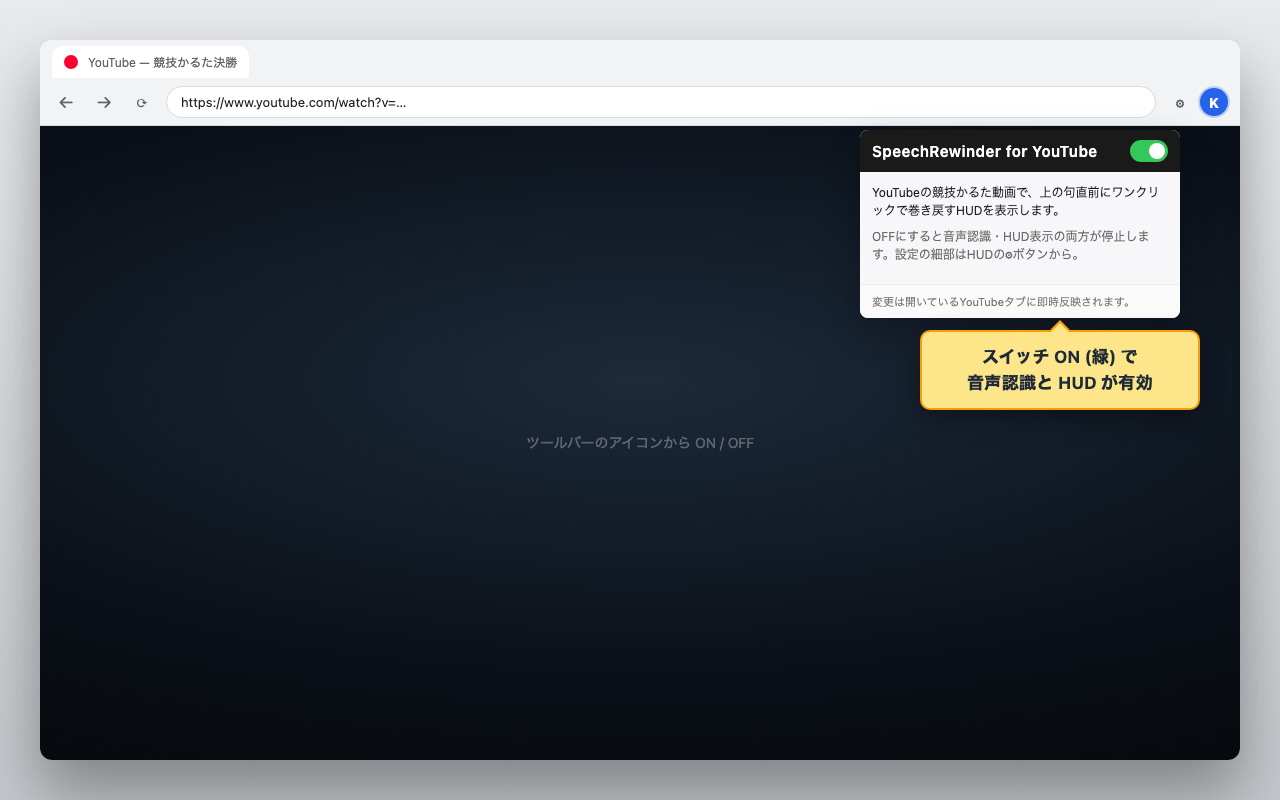
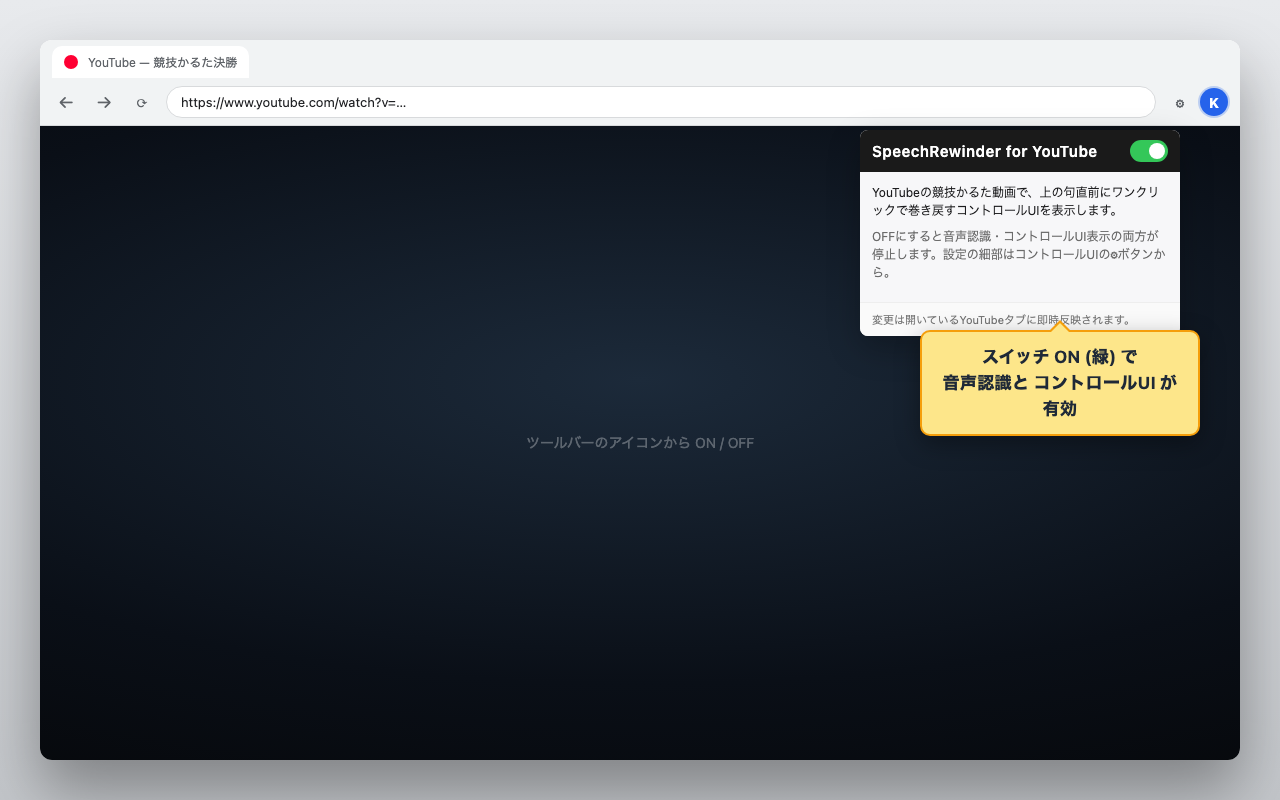
Bump 1.2.0: rename button to 「発話前に戻る」, hide "HUD" from users
The label "静粛まで巻き戻し" and the term "HUD" were both opaque to
people who don't already know what they mean. Both are now replaced
with plainer wording while keeping the same UI structure.

- Button label everywhere (HUD.ts, mocks, docs, store materials):
  「静粛まで巻き戻し」→ 「発話前に戻る」.
- User-facing copy (popup, manifest description, mock popups, README
  intro / usage / known-limits sections, PRIVACY, store listing,
  checklist, screenshot prompts): "HUD" → "コントロールUI".
  Source code identifiers (Hud class, hud/ directory) and dev-facing
  code comments keep the original word — they describe the
  implementation, not the user-facing name.
- Re-rendered all 5 screenshots from the updated mocks so the
  button and popup show the new strings.

Changed region(s): [[0.7188, 0.4688, 0.9375, 0.5625], [0.6562, 0.375, 0.9375, 0.4375], [0.6875, 0.25, 0.9062, 0.3438]]

diff --git a/mock/5-popup-off.html b/mock/5-popup-off.html
@@ -171,14 +171,14 @@
           <label class="switch"><span></span></label>
         </div>
         <div class="popup-section">
-          <p class="hint">YouTubeの競技かるた動画で、上の句直前にワンクリックで巻き戻すHUDを表示します。</p>
-          <p class="hint dim">OFFにすると音声認識・HUD表示の両方が停止します。設定の細部はHUDの⚙ボタンから。</p>
+          <p class="hint">YouTubeの競技かるた動画で、上の句直前にワンクリックで巻き戻すコントロールUIを表示します。</p>
+          <p class="hint dim">OFFにすると音声認識・コントロールUI表示の両方が停止します。設定の細部はコントロールUIの⚙ボタンから。</p>
         </div>
         <div class="popup-footer">変更は開いているYouTubeタブに即時反映されます。</div>
       </div>
     </div>
 
-    <div class="caption-2">スイッチ OFF (グレー) で<br/>音声認識も HUD も停止</div>
+    <div class="caption-2">スイッチ OFF (グレー) で<br/>音声認識も コントロールUI も停止</div>
 
     <div class="page-bg">
       ツールバーのアイコンから ON / OFF

diff --git a/mock/4-popup-on.html b/mock/4-popup-on.html
@@ -227,14 +227,14 @@
           <label class="switch"><span></span></label>
         </div>
         <div class="popup-section">
-          <p class="hint">YouTubeの競技かるた動画で、上の句直前にワンクリックで巻き戻すHUDを表示します。</p>
-          <p class="hint dim">OFFにすると音声認識・HUD表示の両方が停止します。設定の細部はHUDの⚙ボタンから。</p>
+          <p class="hint">YouTubeの競技かるた動画で、上の句直前にワンクリックで巻き戻すコントロールUIを表示します。</p>
+          <p class="hint dim">OFFにすると音声認識・コントロールUI表示の両方が停止します。設定の細部はコントロールUIの⚙ボタンから。</p>
         </div>
         <div class="popup-footer">変更は開いているYouTubeタブに即時反映されます。</div>
       </div>
     </div>
 
-    <div class="caption-2">スイッチ ON (緑) で<br/>音声認識と HUD が有効</div>
+    <div class="caption-2">スイッチ ON (緑) で<br/>音声認識と コントロールUI が有効</div>
 
     <div class="page-bg">
       ツールバーのアイコンから ON / OFF

diff --git a/mock/1-active.html b/mock/1-active.html
@@ -2,7 +2,7 @@
 <html lang="ja">
 <head>
   <meta charset="utf-8" />
-  <title>SpeechRewinder for YouTube — HUD active</title>
+  <title>SpeechRewinder for YouTube — コントロールUI active</title>
   <link rel="stylesheet" href="./_base.css" />
 </head>
 <body>
@@ -14,11 +14,11 @@
   <div class="yt-main">
     <div>
       <div class="yt-player">
-        <!-- The HUD: compact + active -->
+        <!-- The コントロールUI: compact + active -->
         <div class="panel">
           <div class="row">
-            <button class="rewind-btn active flash" type="button" title="静粛まで巻き戻し">
-              <span>◀</span><span>静粛まで巻き戻し</span>
+            <button class="rewind-btn active flash" type="button" title="発話前に戻る">
+              <span>◀</span><span>発話前に戻る</span>
             </button>
             <button class="gear-btn" type="button" title="詳細設定">⚙</button>
           </div>

diff --git a/mock/2-expanded.html b/mock/2-expanded.html
@@ -2,7 +2,7 @@
 <html lang="ja">
 <head>
   <meta charset="utf-8" />
-  <title>SpeechRewinder for YouTube — HUD expanded</title>
+  <title>SpeechRewinder for YouTube — コントロールUI expanded</title>
   <link rel="stylesheet" href="./_base.css" />
 </head>
 <body>
@@ -16,8 +16,8 @@
       <div class="yt-player">
         <div class="panel expanded">
           <div class="row">
-            <button class="rewind-btn active" type="button" title="静粛まで巻き戻し">
-              <span>◀</span><span>静粛まで巻き戻し</span>
+            <button class="rewind-btn active" type="button" title="発話前に戻る">
+              <span>◀</span><span>発話前に戻る</span>
             </button>
             <button class="gear-btn" type="button" title="詳細設定">⚙</button>
           </div>

diff --git a/src/manifest.ts b/src/manifest.ts
@@ -3,8 +3,8 @@ import { defineManifest } from "@crxjs/vite-plugin";
 export default defineManifest({
   manifest_version: 3,
   name: "SpeechRewinder for YouTube",
-  version: "1.1.0",
-  description: "YouTubeで「次の発話の直前」までワンクリックで巻き戻すHUD。競技かるたの上の句直前など、ピンポイントな聞き直しに最適。",
+  version: "1.2.0",
+  description: "YouTubeで「次の発話の直前」までワンクリックで巻き戻すコントロールUI。競技かるたの上の句直前など、ピンポイントな聞き直しに最適。",
   permissions: ["storage"],
   host_permissions: ["https://www.youtube.com/*"],
   background: {

diff --git a/src/popup/popup.html b/src/popup/popup.html
@@ -16,10 +16,10 @@
 
     <section>
       <p class="hint">
-        YouTubeの競技かるた動画で、上の句直前にワンクリックで巻き戻すHUDを表示します。
+        YouTubeの競技かるた動画で、上の句直前にワンクリックで巻き戻すコントロールUIを表示します。
       </p>
       <p class="hint dim">
-        OFFにすると音声認識・HUD表示の両方が停止します。設定の細部はHUDの⚙ボタンから。
+        OFFにすると音声認識・コントロールUI表示の両方が停止します。設定の細部はコントロールUIの⚙ボタンから。
       </p>
     </section>
 

diff --git a/mock/3-live.html b/mock/3-live.html
@@ -16,8 +16,8 @@
       <div class="yt-player">
         <div class="panel expanded">
           <div class="row">
-            <button class="rewind-btn active" type="button" title="静粛まで巻き戻し">
-              <span>◀</span><span>静粛まで巻き戻し</span>
+            <button class="rewind-btn active" type="button" title="発話前に戻る">
+              <span>◀</span><span>発話前に戻る</span>
             </button>
             <button class="gear-btn" type="button" title="詳細設定">⚙</button>
           </div>

diff --git a/src/content/hud/HUD.ts b/src/content/hud/HUD.ts
@@ -68,8 +68,8 @@ export class Hud {
     // DOMException on this page).
     this.rewindBtn = el(
       "button",
-      { class: "rewind-btn inactive", type: "button", title: "静粛まで巻き戻し" },
-      [el("span", {}, ["◀"]), el("span", {}, ["静粛まで巻き戻し"])],
+      { class: "rewind-btn inactive", type: "button", title: "発話前に戻る" },
+      [el("span", {}, ["◀"]), el("span", {}, ["発話前に戻る"])],
     );
     this.gearBtn = el(
       "button",

diff --git a/store/screenshots-prompts.md b/store/screenshots-prompts.md
@@ -1,6 +1,6 @@
 # LLM画像生成プロンプト集 — Chrome Web Store 提出用
 
-`store/screenshots/` 配下の 1〜5 は実HUDモックのスクリーンショット (1280×800 PNG) が既に用意されています。下記は**ヒーロー画像**や**プロモタイル**など追加のイメージ素材を LLM画像生成 (DALL·E / Imagen / Midjourney / SDXL 等) で作るときの推奨プロンプトです。
+`store/screenshots/` 配下の 1〜5 は実コントロールUIモックのスクリーンショット (1280×800 PNG) が既に用意されています。下記は**ヒーロー画像**や**プロモタイル**など追加のイメージ素材を LLM画像生成 (DALL·E / Imagen / Midjourney / SDXL 等) で作るときの推奨プロンプトです。
 
 すべて **横長 1280×800** または **440×280 (小プロモタイル)** で出力するように指定してください。
 
@@ -11,7 +11,7 @@
 ### Prompt A — 機能の視覚化 (推奨・抽象的)
 
 ```
-A clean, modern Chrome browser window screenshot showing a YouTube-style video player on a dark background. At the top center of the video, a small horizontal pill-shaped overlay button is glowing soft blue with a subtle ring of light expanding outward, labeled "◀ 静粛まで巻き戻し" in white. Below the player is a faint waveform visualization with alternating speech and silence segments marked. The aesthetic is minimalist, dark-mode, slightly futuristic, with a hint of traditional Japanese karuta cards (small, gold leaf, blurred) in the bottom corner as a subtle motif. 16:9 aspect ratio, ultra-sharp, photographic realism with UI overlays.
+A clean, modern Chrome browser window screenshot showing a YouTube-style video player on a dark background. At the top center of the video, a small horizontal pill-shaped overlay button is glowing soft blue with a subtle ring of light expanding outward, labeled "◀ 発話前に戻る" in white. Below the player is a faint waveform visualization with alternating speech and silence segments marked. The aesthetic is minimalist, dark-mode, slightly futuristic, with a hint of traditional Japanese karuta cards (small, gold leaf, blurred) in the bottom corner as a subtle motif. 16:9 aspect ratio, ultra-sharp, photographic realism with UI overlays.
 ```
 
 ### Prompt B — 競技かるたの瞬間 (ストーリー寄り)
@@ -33,7 +33,7 @@ Editorial illustration in muted dark blue, white, and ink-wash style. The compos
 ストアの一覧/カテゴリページで使われる小さなタイル。視認性の高さが命。
 
 ```
-A compact branded tile, dark blue gradient background (#1a1a1a to #2563eb), with a large white pill-shaped button in the center labeled "◀ 静粛まで巻き戻し" in Japanese, accompanied by a small "K" logo bottom-right. Aspect ratio 440×280. Clean, high contrast, app-store-style branding.
+A compact branded tile, dark blue gradient background (#1a1a1a to #2563eb), with a large white pill-shaped button in the center labeled "◀ 発話前に戻る" in Japanese, accompanied by a small "K" logo bottom-right. Aspect ratio 440×280. Clean, high contrast, app-store-style branding.
 ```
 
 ---
@@ -68,11 +68,11 @@ A flat, minimalist app icon: a stylized left-pointing arrow ◀ inside a rounded
 
 ---
 
-## 既存の実HUDスクリーンショット (差し替え不要)
+## 既存の実コントロールUIスクリーンショット (差し替え不要)
 
 | ファイル | 内容 |
 |---|---|
-| `screenshots/1-active.png` | 動画上でHUDが青く点灯した瞬間 (基本機能) |
+| `screenshots/1-active.png` | 動画上でコントロールUIが青く点灯した瞬間 (基本機能) |
 | `screenshots/2-expanded.png` | ⚙ で展開した詳細パネル (N秒, 無音閾値, タイムライン, 診断行) |
 | `screenshots/3-live.png` | ライブ配信での表示 (LIVEバッジ) |
 | `screenshots/4-popup-on.png` | ブラウザツールバーのポップアップ ON 状態 |

diff --git a/store/listing-ja.md b/store/listing-ja.md
@@ -10,18 +10,18 @@
 SpeechRewinder for YouTube
 ```
 
-(もし日本語の方がよければ: `競技かるた巻き戻しHUD - SpeechRewinder for YouTube`)
+(もし日本語の方がよければ: `競技かるた巻き戻しコントロールUI - SpeechRewinder for YouTube`)
 
 ## 短い説明 (Summary) — 最大 132 文字
 
 ```
-YouTubeの競技かるた動画で「静粛まで巻き戻し」ボタンを表示。上の句が始まる直前まで一発で巻き戻せます。
+YouTubeの競技かるた動画で「発話前に戻る」ボタンを表示。上の句が始まる直前まで一発で巻き戻せます。
 ```
 
 ## 詳細説明 (Description) — 最大 16,000 文字
 
 ```
-YouTubeで競技かるたの試合動画を視聴中、ブラウザ内のVAD (Voice Activity Detection) で読み手の発話を検出し、HUDの「静粛まで巻き戻し」ボタンをワンクリックするだけで次の上の句が始まる直前まで動画を巻き戻して再生し直します。
+YouTubeで競技かるたの試合動画を視聴中、ブラウザ内のVAD (Voice Activity Detection) で読み手の発話を検出し、コントロールUIの「発話前に戻る」ボタンをワンクリックするだけで次の上の句が始まる直前まで動画を巻き戻して再生し直します。
 
 ■ 競技かるた向けの「特殊な巻き戻し」
 
@@ -31,7 +31,7 @@ YouTubeで競技かるたの試合動画を視聴中、ブラウザ内のVAD (Vo
 ■ 主な機能
 
 ・YouTube通常動画 (/watch?v=...) と YouTube Live (/live/...) の両方に対応
-・動画上部中央にコンパクトなHUDを表示 (「静粛まで巻き戻し」ボタンと⚙のみ)
+・動画上部中央にコンパクトなコントロールUIを表示 (「発話前に戻る」ボタンと⚙のみ)
 ・⚙をクリックすると詳細設定 (N秒の調整、無音閾値の調整、検出区間のタイムライン、リアルタイム診断) が展開
 ・新たな上の句の開始が検出されるとボタンがフラッシュアニメーションで点滅
 ・ツールバーアイコンからワンタップで拡張全体をON/OFF
@@ -92,5 +92,5 @@ https://github.com/qurihara/SpeechRewinder-for-youtube
 ```
 本拡張の単一の目的は、YouTubeで競技かるたの試合動画を視聴中に、「上の句が始まる直前」まで一発で巻き戻すための専用UIを提供することです。
 
-ブラウザ内のVAD (音声区間検出) で読みのリズム (下の句末尾→無音→次の上の句冒頭) を検出し、HUDの「静粛まで巻き戻し」ボタンがクリックされた時に、検出された次の上の句開始時刻のN秒前に動画をseekします。
+ブラウザ内のVAD (音声区間検出) で読みのリズム (下の句末尾→無音→次の上の句冒頭) を検出し、コントロールUIの「発話前に戻る」ボタンがクリックされた時に、検出された次の上の句開始時刻のN秒前に動画をseekします。
 ```

diff --git a/store/justifications.md b/store/justifications.md
@@ -7,13 +7,13 @@
 ## storage 権限の正当化
 
 ```
-ユーザーの設定値 (拡張全体のON/OFF、巻き戻し秒数N、無音閾値、HUD表示パラメータ) をchrome.storage.syncに保存します。ユーザー個別の好みを記憶するためのみに使用し、外部送信は一切行いません。
+ユーザーの設定値 (拡張全体のON/OFF、巻き戻し秒数N、無音閾値、コントロールUI表示パラメータ) をchrome.storage.syncに保存します。ユーザー個別の好みを記憶するためのみに使用し、外部送信は一切行いません。
 ```
 
 ## host_permissions (https://www.youtube.com/*) の正当化
 
 ```
-本拡張はYouTubeの動画ページにHUDをオーバーレイ表示し、<video>要素から音声を取得して音声区間検出を行うため、YouTubeドメインへのアクセスが必要です。YouTube以外のサイトには一切影響しません。
+本拡張はYouTubeの動画ページにコントロールUIをオーバーレイ表示し、<video>要素から音声を取得して音声区間検出を行うため、YouTubeドメインへのアクセスが必要です。YouTube以外のサイトには一切影響しません。
 ```
 
 ## remote code
